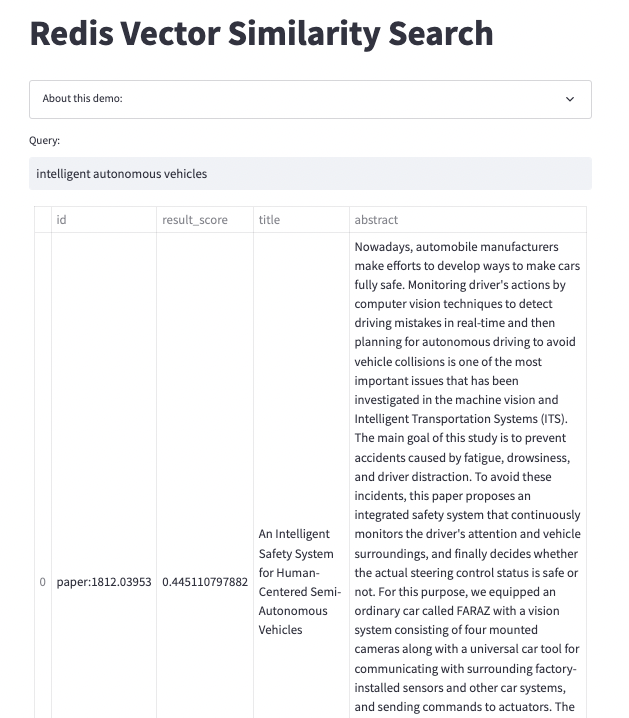
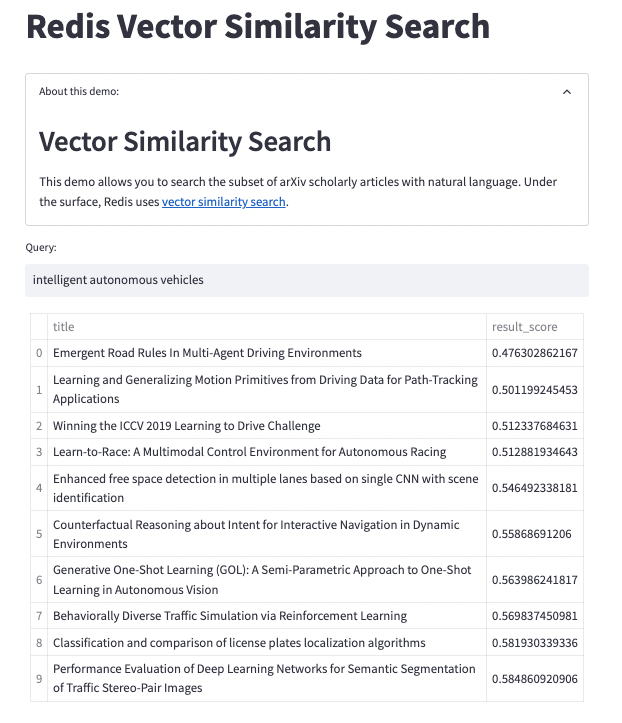
update streamlit app details

diff --git a/vecsim/streamlit_app.py b/vecsim/streamlit_app.py
@@ -28,7 +28,7 @@ with st.expander("About this demo:", expanded=False):
     """
     ## Vector Similarity Search
 
-    This demo allows you to search the database of claims using Vector Similarity Search via vector embeddings.
+    This demo allows you to search the subset of arXiv scholarly articles with natural language. Under the surface, Redis uses [vector similarity search](https://mlops.community/vector-similarity-search-from-basics-to-production/).
     """
     )
 
@@ -36,7 +36,7 @@ user_query = st.text_input("Query:", "intelligent autonomous vehicles")
 logging.info(f"search string: {user_query}")
 
 q = Query("*=>[KNN 10 @vector $vector AS result_score]")\
-    .return_fields("result_score", "title", "abstract")\
+    .return_fields("result_score", "title")\
     .dialect(2)\
     .sort_by("result_score", True)
 
@@ -45,6 +45,6 @@ query_vector = embeddings.make(user_query).astype(np.float32).tobytes()
 res = redis.ft(index_name).search(
     q, query_params={"vector": query_vector})
 
-df = pd.DataFrame([t.__dict__ for t in res.docs]).drop(columns=["payload"])
+df = pd.DataFrame([t.__dict__ for t in res.docs]).drop(columns=["payload", "id"])
 
-st.table(df)
+st.table(df[["title", "result_score"]])
